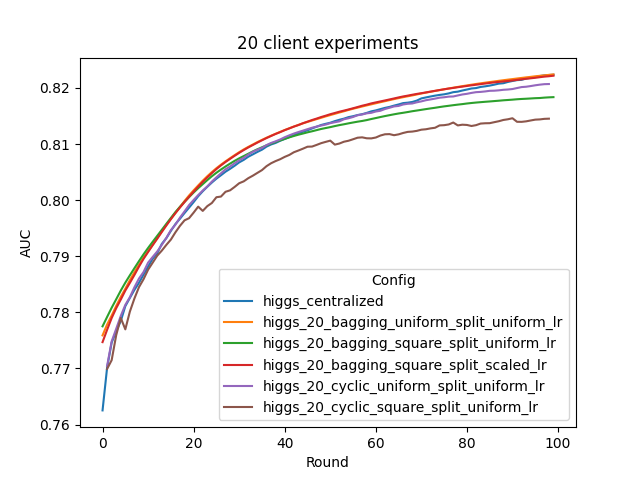
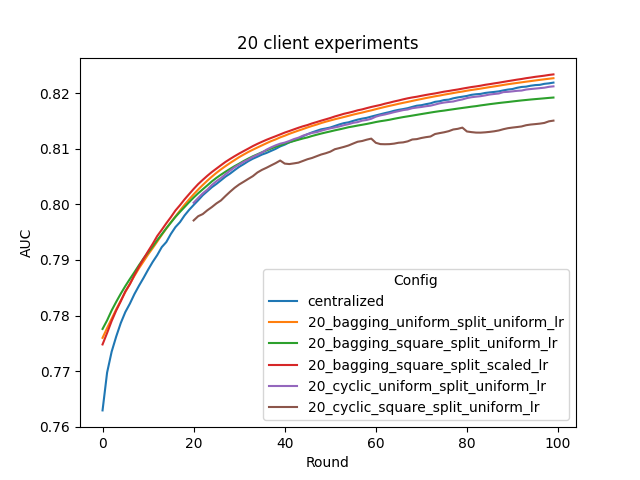
convert to simulator with latest performance updates (#933)

diff --git a/examples/xgboost/utils/plot_tensorboard_events.py b/examples/xgboost/utils/plot_tensorboard_events.py
@@ -19,33 +19,33 @@ import matplotlib.pyplot as plt
 import seaborn as sns
 import tensorflow as tf
 
-# poc workspace
+# simulator workspace
 client_results_root = "./workspaces/xgboost_workspace_"
 client_num_list = [5, 20]
-client_pre = "site-"
+client_pre = "app_site-"
 centralized_path = "./workspaces/centralized_1_1/events.*"
 
 # bagging and cyclic need different handle
 experiments_bagging = {
     5: {
-        "higgs_5_bagging_uniform_split_uniform_lr": {"tag": "AUC"},
-        "higgs_5_bagging_exponential_split_uniform_lr": {"tag": "AUC"},
-        "higgs_base": {"tag": "AUC"},
+        "5_bagging_uniform_split_uniform_lr": {"tag": "AUC"},
+        "5_bagging_exponential_split_uniform_lr": {"tag": "AUC"},
+        "5_bagging_exponential_split_scaled_lr": {"tag": "AUC"}
     },
     20: {
-        "higgs_20_bagging_uniform_split_uniform_lr": {"tag": "AUC"},
-        "higgs_20_bagging_square_split_uniform_lr": {"tag": "AUC"},
-        "higgs_20_bagging_square_split_scaled_lr": {"tag": "AUC"},
+        "20_bagging_uniform_split_uniform_lr": {"tag": "AUC"},
+        "20_bagging_square_split_uniform_lr": {"tag": "AUC"},
+        "20_bagging_square_split_scaled_lr": {"tag": "AUC"},
     },
 }
 experiments_cyclic = {
     5: {
-        "higgs_5_cyclic_uniform_split_uniform_lr": {"tag": "AUC"},
-        "higgs_5_cyclic_exponential_split_uniform_lr": {"tag": "AUC"},
+        "5_cyclic_uniform_split_uniform_lr": {"tag": "AUC"},
+        "5_cyclic_exponential_split_uniform_lr": {"tag": "AUC"},
     },
     20: {
-        "higgs_20_cyclic_uniform_split_uniform_lr": {"tag": "AUC"},
-        "higgs_20_cyclic_square_split_uniform_lr": {"tag": "AUC"},
+        "20_cyclic_uniform_split_uniform_lr": {"tag": "AUC"},
+        "20_cyclic_square_split_uniform_lr": {"tag": "AUC"},
     },
 }
 
@@ -60,20 +60,6 @@ def smooth(scalars, weight):  # Weight between 0 and 1
         smoothed.append(smoothed_val)  # Save it
         last = smoothed_val  # Anchor the last smoothed value
     return smoothed
-
-
-def find_job_id(workdir, fl_app_name="xgboost"):
-    """Find the first matching experiment"""
-    target_path = os.path.join(workdir, "*", "fl_app.txt")
-    fl_app_files = glob.glob(target_path, recursive=True)
-    assert len(fl_app_files) > 0, f"No `fl_app.txt` files found in workdir={workdir}."
-    for fl_app_file in fl_app_files:
-        with open(fl_app_file, "r") as f:
-            _fl_app_name = f.read()
-        if fl_app_name == _fl_app_name:  # alpha will be matched based on value in config file
-            job_id = os.path.basename(os.path.dirname(fl_app_file))
-            return job_id
-    raise ValueError(f"No job id found for fl_app_name={fl_app_name} in workdir={workdir}")
 
 
 def read_eventfile(filepath, tags=["AUC"]):
@@ -119,16 +105,12 @@ def main():
         assert len(eventfile) == 1, "No unique event file found!" + eventfile
         eventfile = eventfile[0]
         print("adding", eventfile)
-        add_eventdata(data, "higgs_centralized", eventfile, tag="AUC")
-        # Pick first client for bagging experiments
+        add_eventdata(data, "centralized", eventfile, tag="AUC")
+        # pick first client for bagging experiments
         site = 1
         for config, exp in experiments_bagging[client_num].items():
-            job_id = find_job_id(
-                workdir=os.path.join(client_results_root + str(client_num), client_pre + str(site)), fl_app_name=config
-            )
-            print(f"Found run {job_id} for {config}")
             record_path = os.path.join(
-                client_results_root + str(client_num), client_pre + str(site), job_id, "*", "events.*"
+                client_results_root + config, "simulate_job", client_pre + str(site), "events.*"
             )
             eventfile = glob.glob(record_path, recursive=True)
             assert len(eventfile) == 1, "No unique event file found!"
@@ -139,16 +121,11 @@ def main():
         # Combine all clients' records for cyclic experiments
         for site in range(1, client_num + 1):
             for config, exp in experiments_cyclic[client_num].items():
-                job_id = find_job_id(
-                    workdir=os.path.join(client_results_root + str(client_num), client_pre + str(site)),
-                    fl_app_name=config,
-                )
-                print(f"Found run {job_id} for {config}")
                 record_path = os.path.join(
-                    client_results_root + str(client_num), client_pre + str(site), job_id, "*", "events.*"
+                    client_results_root + config, "simulate_job", client_pre + str(site), "events.*"
                 )
                 eventfile = glob.glob(record_path, recursive=True)
-                assert len(eventfile) == 1, "No unique event file found!"
+                assert len(eventfile) == 1, f"No unique event file found under {record_path}!"
                 eventfile = eventfile[0]
                 print("adding", eventfile)
                 add_eventdata(data, config, eventfile, tag=exp["tag"])

diff --git a/examples/xgboost/README.md b/examples/xgboost/README.md
@@ -74,18 +74,6 @@ python3 -m pip install tensorboard
 python3 -m pip install tensorflow
 python3 -m pip install seaborn
 ```
-### Set up FL workspace
-Follow the [Quickstart](https://nvflare.readthedocs.io/en/main/quickstart.html) instructions to set up your POC ("proof of concept") workspace.
-
-Here, we run the following script
-```
-bash create_poc_workspace.sh 5
-```
-and 
-```
-bash create_poc_workspace.sh 20
-```
-for our two experimental settings: 5-client and 20-client.
 
 ### Prepare job configs under various training schemes
 We then prepare the job configs for NVFlare jobs corresponding to various settings by running
@@ -105,44 +93,11 @@ By default, cpu based training is used.  For gpu based training, edit `job_conf_
 
 > **_NOTE:_** Cyclic training always use uniform shrinkage. The generated job config files will be stored in the folder `./job_configs`
 
-### Option 1: start the FL system and submit jobs
-Next, we will start the FL system and submit jobs to start FL training automatically.
-
-Start the FL system with either 5 clients or 20 clients
+### Run local experiments with simulator
+Next, we will use the NVFlare simulator to run FL training automatically.
 ```
-bash start_fl_poc.sh 5
+bash run_experiment_simulator.sh
 ```
-or
-```
-bash start_fl_poc.sh 20
-```
-This script will start the FL server and clients automatically to run FL experiments on localhost. 
-
-Then FL training will be run with an automatic script utilizing the FLAdminAPI functionality.    
-The [submit_job.sh](./submit_job.sh) script follows the pattern:
-```
-bash ./submit_job.sh [client_num] [training_option] [split] [lr_scheme]
-```
-The arguments control which config to use.  
-
-### Option 2: run all jobs together
-To run all experiments under 5-client or 20-client settings in one command, simply run
-```
-bash run_experiment_5.sh
-```
-or
-```
-bash run_experiment_20.sh
-```
-
-### Shut down the server/clients
-
-To shut down the clients and server, run the following Admin commands:
-```
-shutdown client
-shutdown server
-```
-> **_NOTE:_** For more information about the Admin client, see [here](https://nvflare.readthedocs.io/en/main/user_guide/operation.html).
 
 ## Results on 5- and 20-client under various training settings
 For comparison, we train baseline models in a centralized manner with same round of training
@@ -171,7 +126,7 @@ As illustrated, we can have the following observations:
 - cyclic training performs ok under uniform split (the purple curve), however under non-uniform split, it will have significant performance drop (the brown curve)
 - bagging training performs better than cyclic under both uniform and non-uniform data splits (orange v.s. purple, red/green v.s. brown)
 - with uniform shrinkage, bagging will have significant performance drop under non-uniform split (green v.s. orange)
-- data-size dependent shrinkage will be able to recover the performance drop above (red v.s. green), and achieve almost the same performance as uniform data split (red v.s. orange) 
+- data-size dependent shrinkage will be able to recover the performance drop above (red v.s. green), and achieve comparable/better performance as uniform data split (red v.s. orange) 
 - bagging under uniform data split (orange), and bagging with data-size dependent shrinkage under non-uniform data split(red), can achieve comparable/better performance as compared with centralized training baseline (blue)
 
 For model size, centralized training and cyclic training will have a model consisting of `num_round` trees, while the bagging models consist of `num_round * num_client` trees, since each round, bagging training boosts a forest consisting of individually trained trees from each client.
